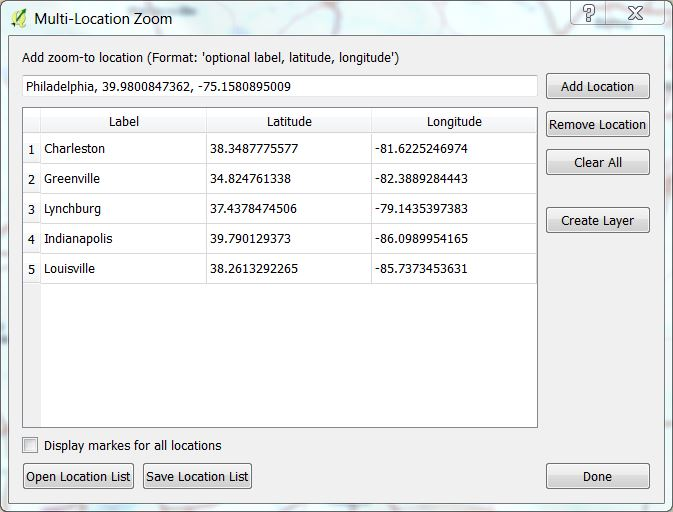
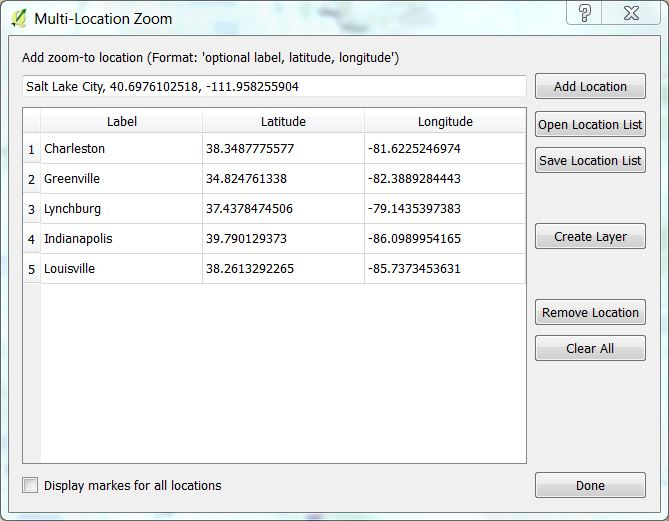
revised multi zoom and updated documentation.

diff --git a/readme.md b/readme.md
@@ -1,12 +1,12 @@
 # Lat Lon Tools Plugin
 
-***Lat Lon Tools*** is a suite of tools that makes it easy to interact with other on-line mapping tools. When working with **Google Earth**, **Google Maps** or other on-line mapping tools, coordinates are specified in the order of 'Latitude, Longitude'. By default ***Lat Lon Tools*** uses the standard Google Map format, but is very flexible and can use virtually any projection and coordinate format for input and output. The following tools are available in ***Lat Lon Tools***.
+***Lat Lon Tools*** is a suite of tools that makes it easy to capture and zoom to coordinates and interact with other on-line mapping tools. It also adds MGRS support to QGIS. When working with **Google Earth**, **Google Maps** or other on-line mapping tools, coordinates are specified in the order of 'Latitude, Longitude'. By default ***Lat Lon Tools*** uses the standard Google Map format, but is very flexible and can use virtually any projection and coordinate format for input and output. The following tools are available in ***Lat Lon Tools***.
 
 <div style="text-align:center"><img src="doc/menu.jpg" alt="Lat Lon Tools Plugin"></div>
 
 * <img src="images/copyicon.png" alt="Copy coordinate"> ***Copy Latitude, Longitude*** - This captures coordinates onto the clipboard when the user clicks on the map using the standard Google Map format or a format specified in ***Settings***. If the user specifies a **Tab** separator, then the coordinate can be pasted into a spreadsheet in separate columns. While this tool is selected, the coordinate the mouse is over is shown in the lower left-hand corner either in **decimal degrees**, **DMS**, **MGRS**, or **WKT POINT** notation depending on the **Settings**. By default it uses the Geographic Latitude and Longitude to snapshot the coordinate, but this can be configured in **Settings** to use the project CRS or any other projection desired. See the **Settings** section for more details on the all the possibilities.
   
-* <img src="images/zoomicon.png" alt="Zoom-to"> ***Zoom to Latitude, Longitude*** - With this tool, type or paste a coordinate into the text area and hit **Enter**. QGIS centers the map on the coordinate, highlight the location and create a temporary marker at the location. The marker can be removed with the <img src="doc/cleartool.jpg" alt="Clear marker"> button. If the default WGS 84 (EPSG:4326 - latitude/longitude) coordinate system is specified, "Zoom to Latitude, Longitude" can interpret **decimal degrees**, **DMS**, or **WKT POINT** coordinates. If configure in **Settings** it can zoom to **MGRS** coordinates or coordinates formatted in the project CRS or any other projection. The ***Coordinate Order*** in ***Settings*** dictates whether the order is latitude followed by longitude (Y,X) or longitude followed by latitude (X,Y). By default the order is "Latitude, Longitude", the format used by Google Maps. Pressing the <img src="doc/zoomtool.jpg" alt="Zoom button"> also causes QGIS to zoom to that location.<br /><div style="text-align:center"><img src="doc/zoomto.jpg" alt="Zoom to Latitude, Longitude"></div><br />The following are acceptable coordinate formats when the ***Settings*** **Zoom to Coordinate Type** is set to ***WGS 84 (Latitude & Longitude)***. When the letters "N, S, E, W" are used, then the coordinate order is not important. These letters can be used before or after the coordinates. As long as the coordinate is understandable, punctuation, spaces, and &deg; ' " are optional. In these examples "d" represents degree digits, "m" minutes, and "s" seconds. Here are some example input formats:
+* <img src="images/zoomicon.png" alt="Zoom-to"> ***Zoom to Latitude, Longitude*** - With this tool, type or paste a coordinate into the text area and hit **Enter**. QGIS centers the map on the coordinate, highlights the location and creates a temporary marker at the location. The marker can be removed with the <img src="doc/cleartool.jpg" alt="Clear marker"> button. If the default WGS 84 (EPSG:4326 - latitude/longitude) coordinate system is specified, "Zoom to Latitude, Longitude" can interpret **decimal degrees**, **DMS**, or **WKT POINT** coordinates. If configure in **Settings** it can zoom to **MGRS** coordinates or coordinates formatted in the project CRS or any other projection. The ***Coordinate Order*** in ***Settings*** dictates whether the order is latitude followed by longitude (Y,X) or longitude followed by latitude (X,Y). By default the order is "Latitude, Longitude", the format used by Google Maps. Pressing the <img src="doc/zoomtool.jpg" alt="Zoom button"> also causes QGIS to zoom to that location.<br /><div style="text-align:center"><img src="doc/zoomto.jpg" alt="Zoom to Latitude, Longitude"></div><br />The following are acceptable coordinate formats when the ***Settings*** **Zoom to Coordinate Type** is set to ***WGS 84 (Latitude & Longitude)***. When the letters "N, S, E, W" are used, then the coordinate order is not important. These letters can be used before or after the coordinates. As long as the coordinate is understandable, punctuation, spaces, and &deg; ' " are optional. In these examples "d" represents degree digits, "m" minutes, and "s" seconds. Here are some example input formats:
 
     * Decimal Degree: 38.959390&deg;, -95.265483&deg; / 38.959390, -95.265483 / 38.959390N, 95.265483 W (d.dddd, d.dddd)
     * Degree, Minute: 38&deg; 57.5634'N 95&deg; 15.92890'W (d m.mmmm, d m.mmmm)
@@ -17,7 +17,7 @@
     * Example MGRS coordinate when **Zoom to Coordinate Type** is set to ***MGRS***: 15S UD 03704 14710
 
 * <img src="images/mapicon.png" alt="Show in External Map"> ***Show in External Map*** - With this tool, the user can click on the QGIS map which launches an external browser and displays the location on an external map. Currently Open Street Map, Google Maps, and Bing Maps are supported. The desired map can be configured in **Settings**.
-* <img src="images/multizoom.png" alt="Multi-location Zoom"> ***Multi-location Zoom*** - Here the user can define a set of quick zoom-to locations. ***Open Location List*** reads in a set of coordinates that are comma separated with an optional label. There should only be one location per line and formatted as **"label,latitude,longitude"** or **"latitude,longitude"**. The user can also paste or type in a coordinate in the ***Add zoom-to location*** box and add it to the list. When the user clicks on a list location, QGIS centers the map on the location and highlights it. Double clicking on **Layer** allows the text to be edited. The ***Remove Location*** button removes the selected location. ***Clear All*** removes all of the list entries. ***Create Layer*** creates a memory layer out of the zoom-to locations. ***Save Location List*** saves all of the zoom-to entries in a .csv file formatted as **"label,latitude,longitude"***.
+* <img src="images/multizoom.png" alt="Multi-location Zoom"> ***Multi-location Zoom*** - Here the user can define a set of quick zoom-to locations. ***Open Location List*** reads in a set of coordinates that are comma separated with an optional label. There should only be one location per line and formatted as **"label,latitude,longitude"** or **"latitude,longitude"**. The user can also paste or type in a coordinate in the ***Add zoom-to location*** box and add it to the list. ***Save Location List*** saves all of the zoom-to entries in a .csv file, formatted as **"label,latitude,longitude"**. When the user clicks on a list location, QGIS centers the map on the location and highlights it. Double clicking on a **Label** cell allows the text to be edited. ***Create Layer*** creates a memory layer out of the zoom-to locations. ***Remove Location*** removes the selected location. ***Clear All*** removes all of the list entries.
 
 <div style="text-align:center"><img src="doc/multizoom.jpg" alt="Multi-location Zoom"></div>
 
